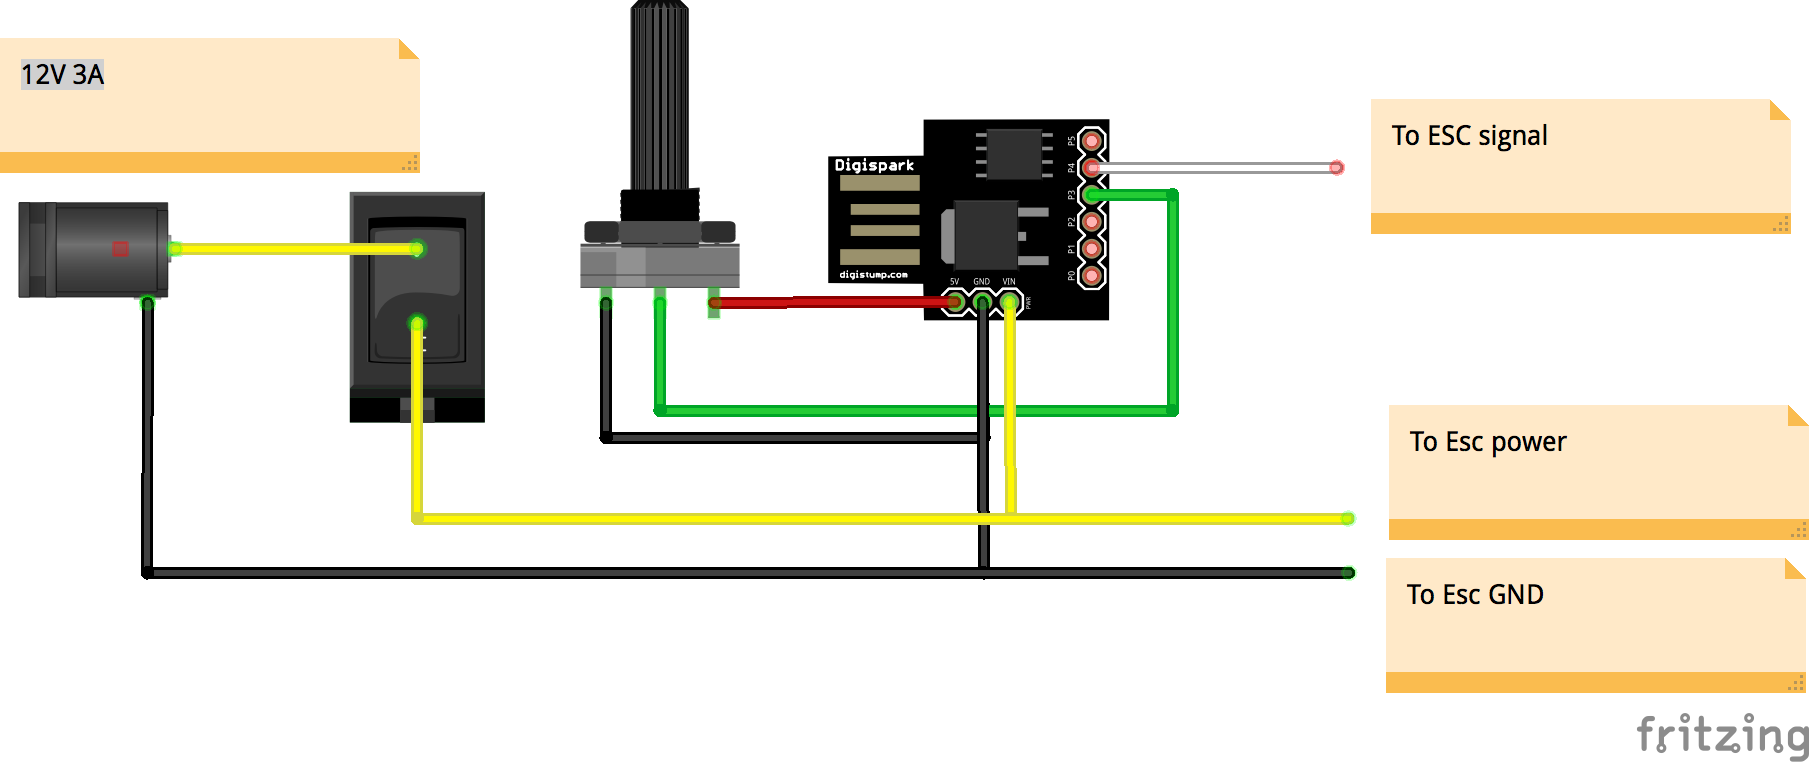
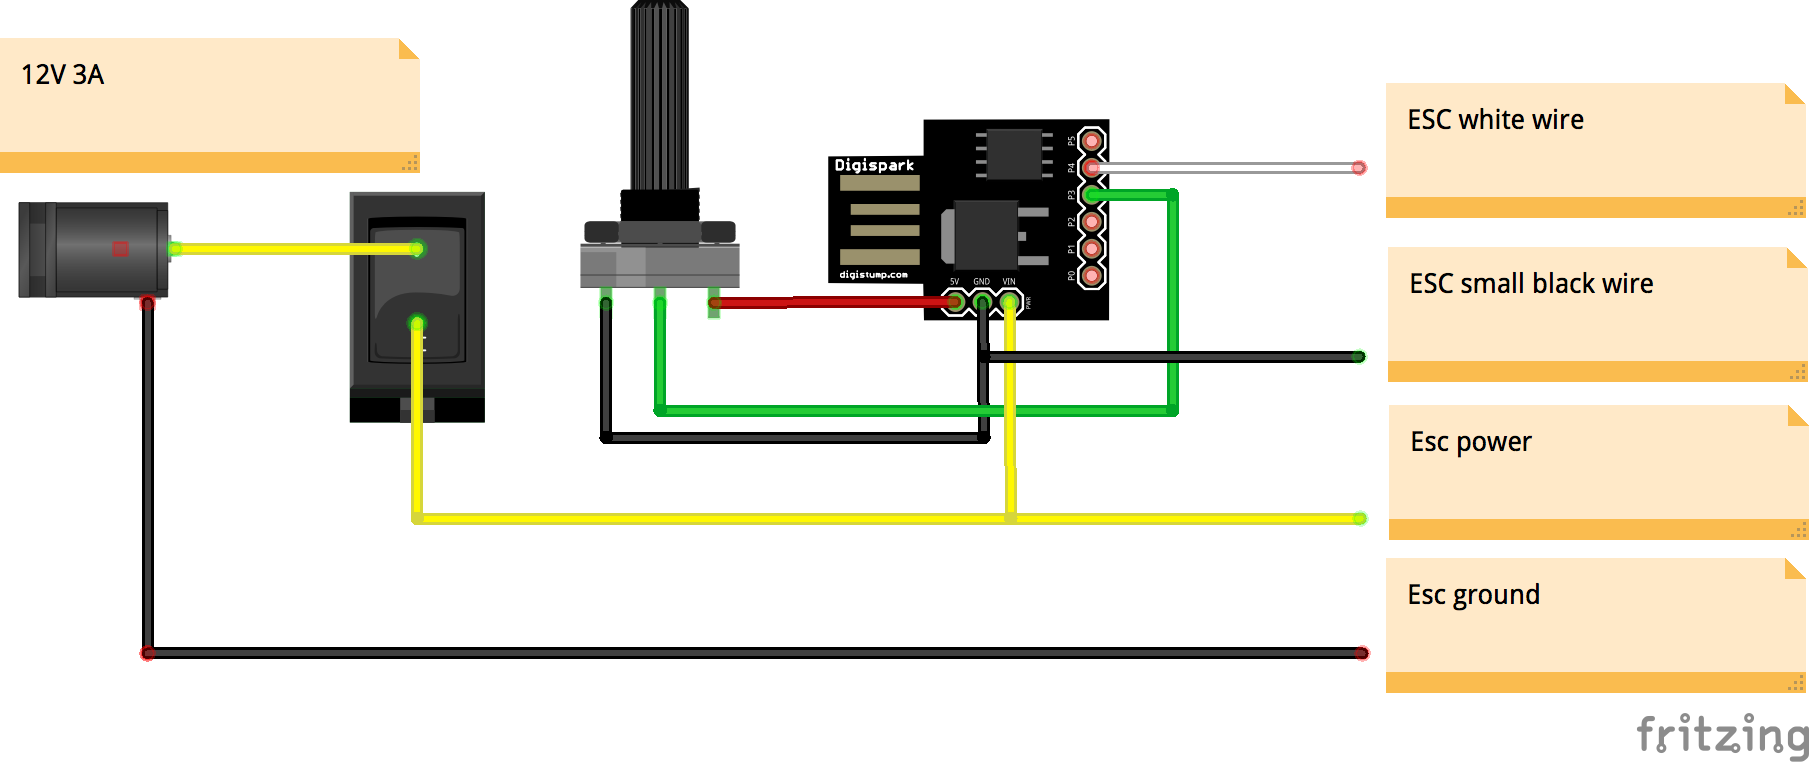
Updated schematic and added demo gif

diff --git a/readme.md b/readme.md
@@ -1,5 +1,7 @@
 # F.Lab's DIYbio Centrifuge
 
+![demo](doc/4RVZx7.gif)
+
 This a remix of [F.Lab's DIYbio Centrifuge](https://www.thingiverse.com/thing:1175393) with the following changes:
 
   * Uses a [Digispark](http://digistump.com/products/1) (or clone) ATTiny85 board instead of an Arduino
